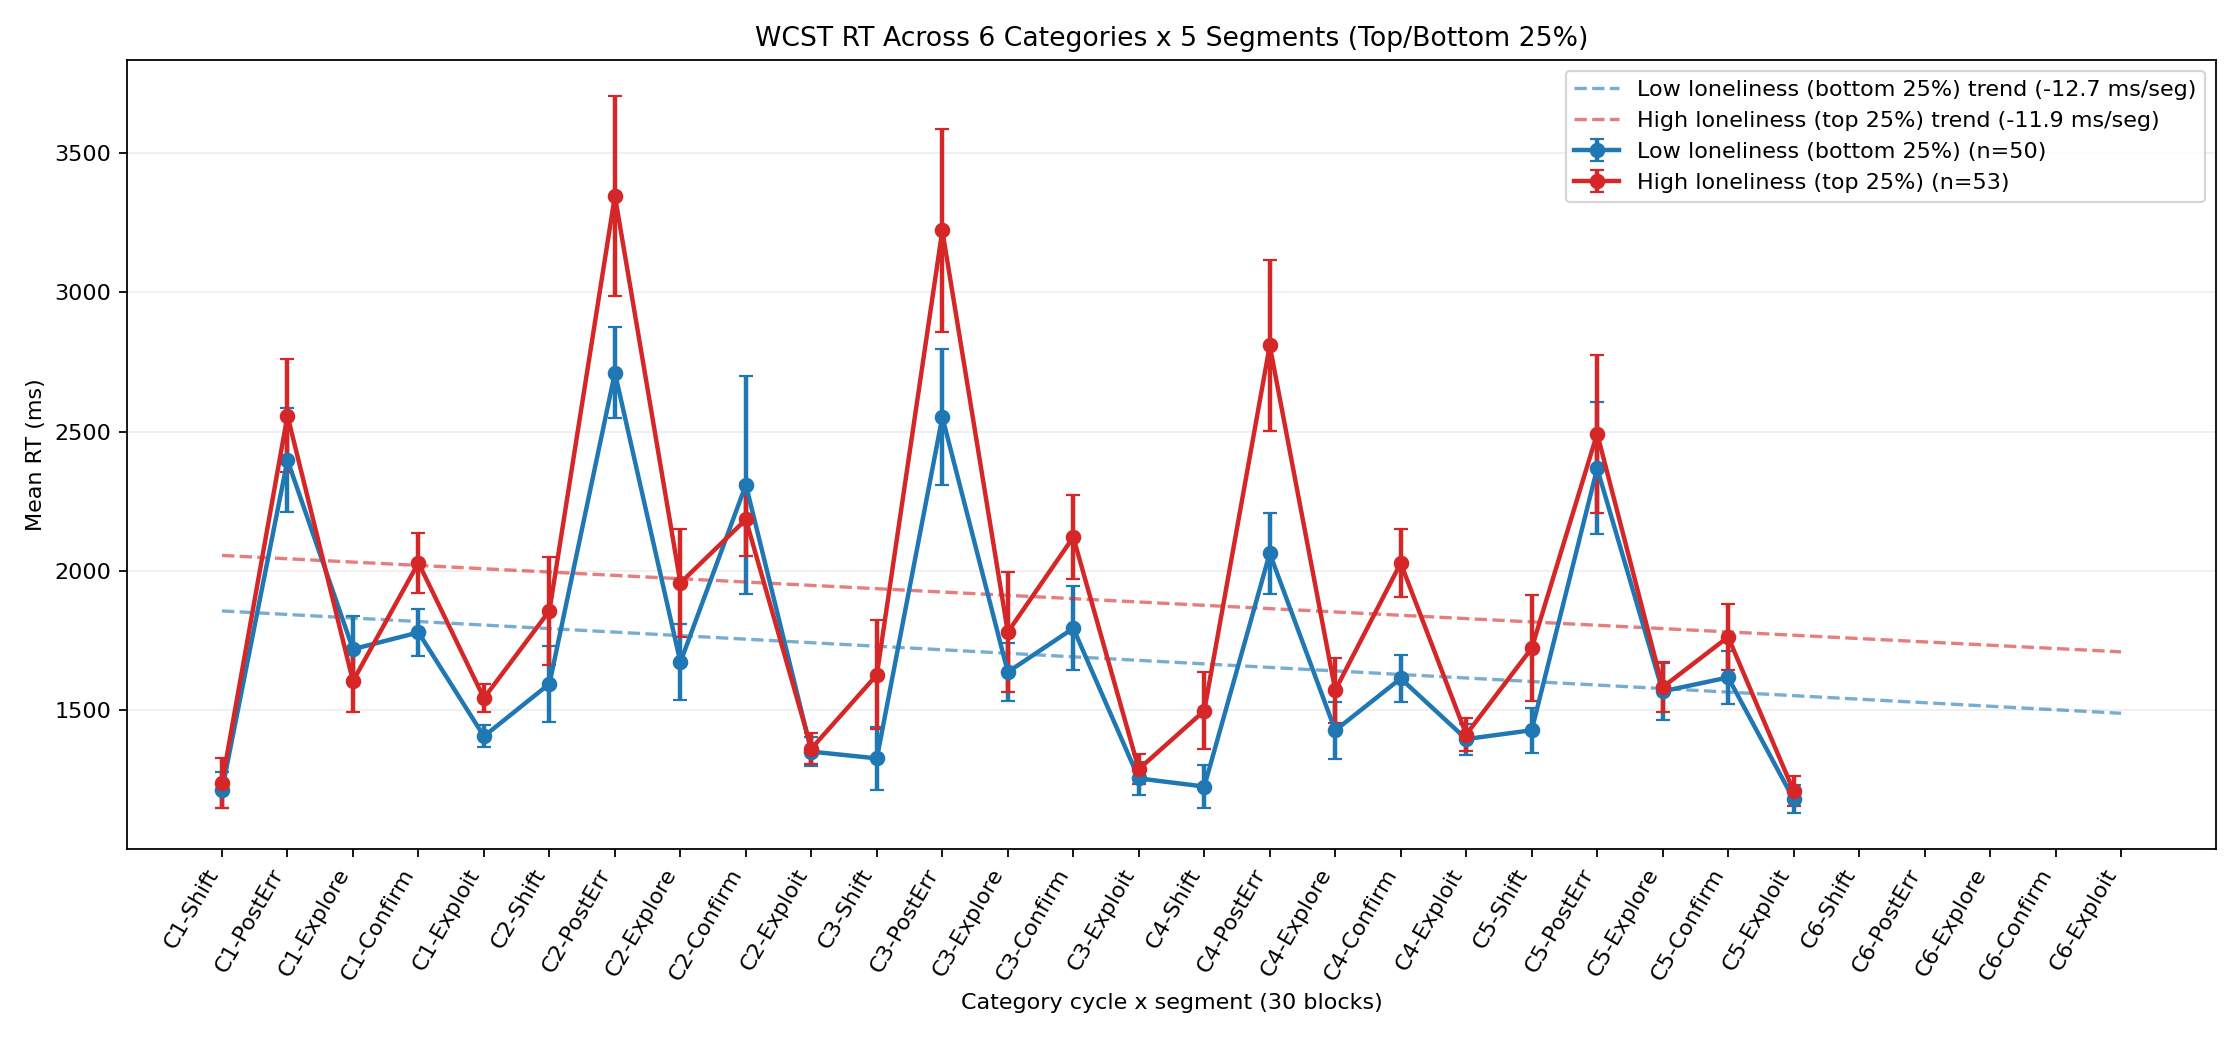
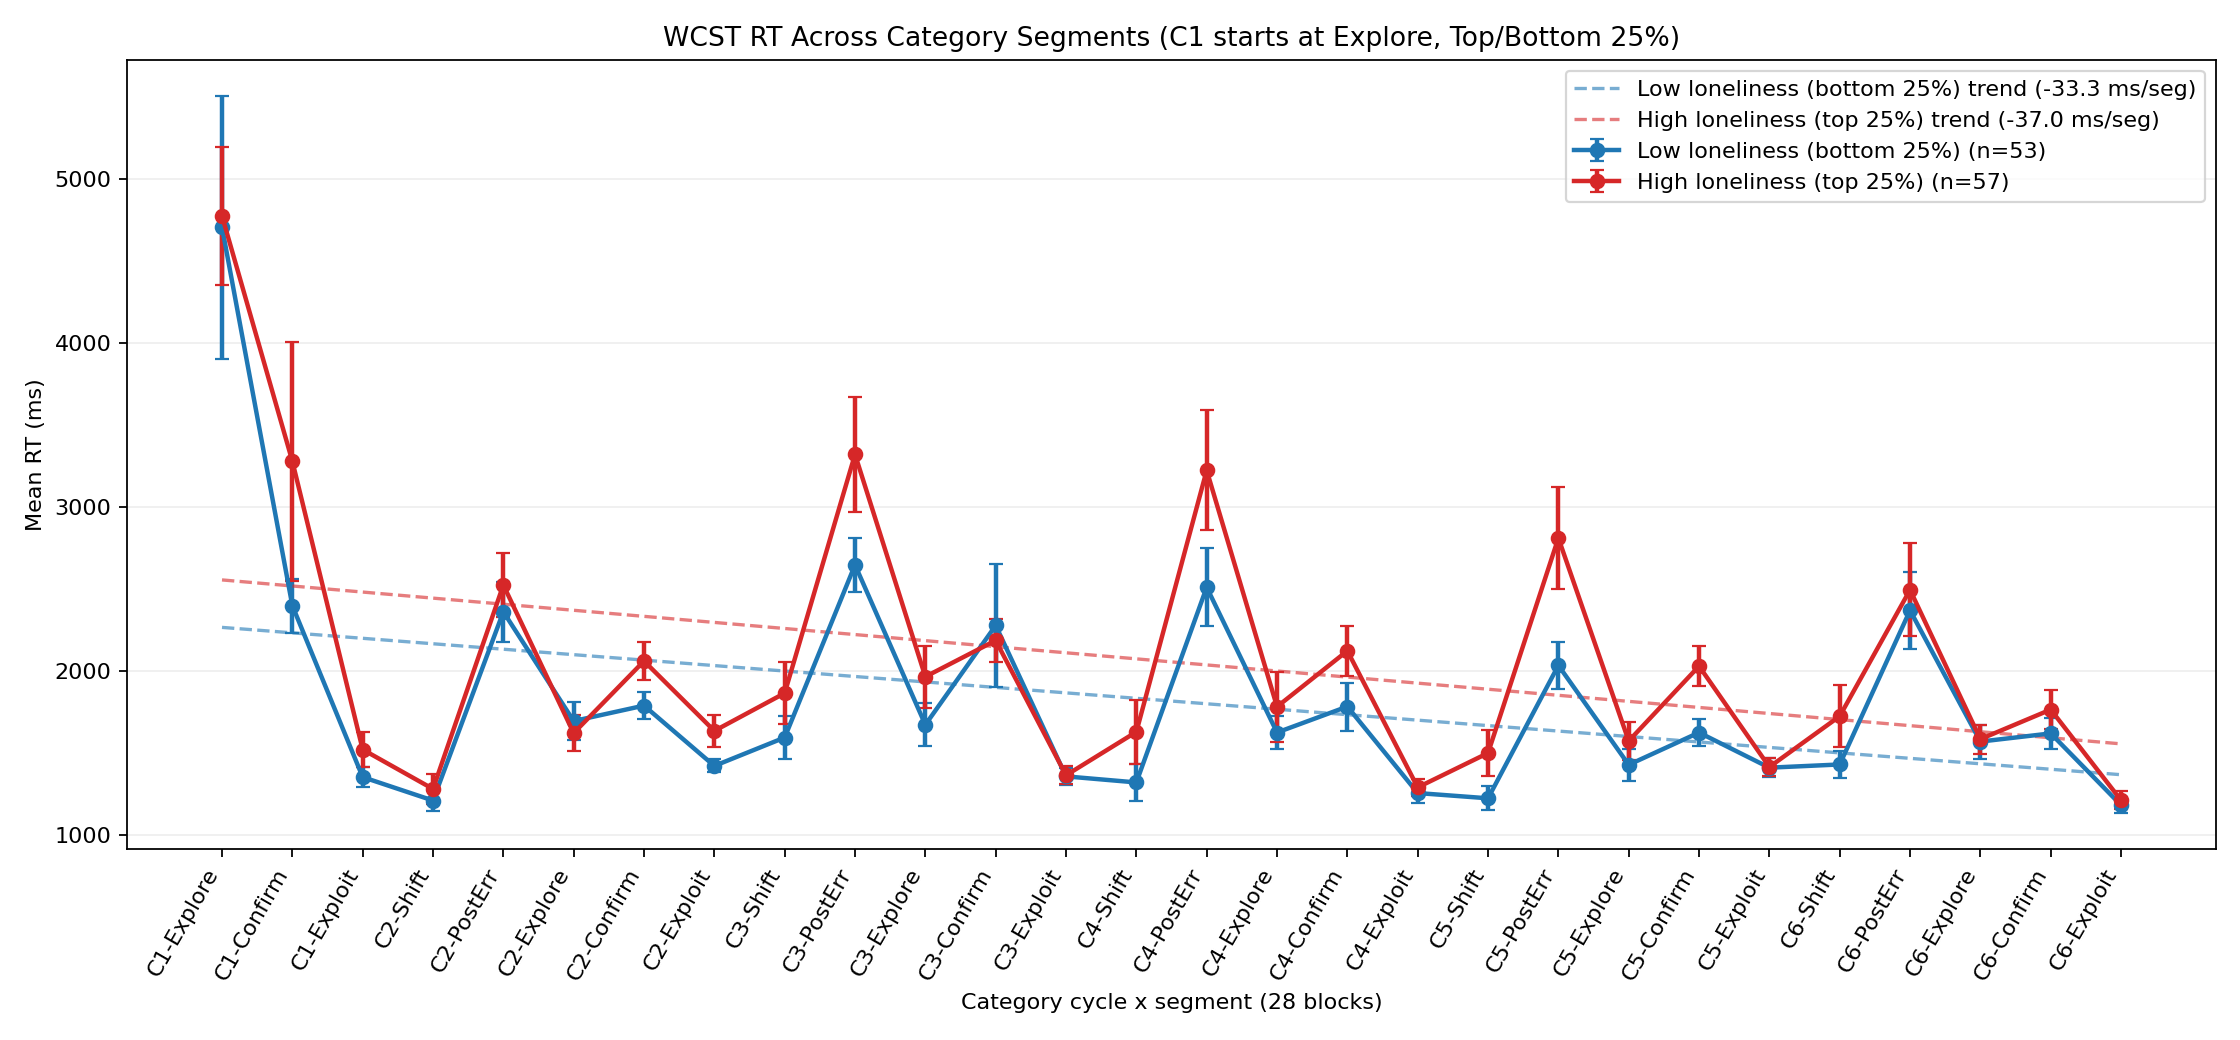
Update WCST category segment trend outputs

diff --git a/publication/scripts/generate_wcst_category_segment_rt_trend.py b/publication/scripts/generate_wcst_category_segment_rt_trend.py
@@ -26,6 +26,26 @@ SEGMENTS = [
     ("confirmation", "Confirm"),
     ("exploitation", "Exploit"),
 ]
+FIRST_SEGMENTS = [
+    ("exploration", "Explore"),
+    ("confirmation", "Confirm"),
+    ("exploitation", "Exploit"),
+]
+
+
+def _segment_plan() -> tuple[list[str], dict[tuple[int, str], int], dict[int, list[tuple[str, str]]]]:
+    labels: list[str] = []
+    order_map: dict[tuple[int, str], int] = {}
+    segments_by_category: dict[int, list[tuple[str, str]]] = {}
+    order = 1
+    for cat in range(1, N_CATEGORIES + 1):
+        segs = FIRST_SEGMENTS if cat == 1 else SEGMENTS
+        segments_by_category[cat] = segs
+        for seg_key, seg_short in segs:
+            order_map[(cat, seg_key)] = order
+            labels.append(f"C{cat}-{seg_short}")
+            order += 1
+    return labels, order_map, segments_by_category
 
 
 def _assign_loneliness_groups(df: pd.DataFrame) -> pd.DataFrame:
@@ -103,6 +123,8 @@ def _build_long_df(
     rt_col: str,
     trial_col: str | None,
     rule_col: str,
+    segments_by_category: dict[int, list[tuple[str, str]]],
+    order_map: dict[tuple[int, str], int],
 ) -> pd.DataFrame:
     records: list[dict[str, object]] = []
     for pid, grp in trials.groupby("participant_id"):
@@ -114,16 +136,14 @@ def _build_long_df(
         correct = grp_sorted["correct"].astype(bool).to_numpy()
         rules = grp_sorted[rule_col].astype(str).str.lower().to_numpy()
         change_indices = [i for i in range(1, len(rules)) if rules[i] != rules[i - 1]]
-        if not change_indices:
-            continue
-
-        for cat_idx, idx in enumerate(change_indices, start=1):
+        segment_starts = [0] + change_indices
+        segment_ends = change_indices + [len(rules)]
+        for cat_idx, (idx, next_idx) in enumerate(zip(segment_starts, segment_ends), start=1):
             if cat_idx > N_CATEGORIES:
                 break
-            next_idx = change_indices[cat_idx] if cat_idx < len(change_indices) else len(rules)
             seg_means = _segment_means_for_cycle(rt_vals, correct, idx, next_idx)
-            for seg_key, seg_short in SEGMENTS:
-                order = (cat_idx - 1) * len(SEGMENTS) + SEGMENTS.index((seg_key, seg_short)) + 1
+            for seg_key, seg_short in segments_by_category[cat_idx]:
+                order = order_map[(cat_idx, seg_key)]
                 records.append({
                     "participant_id": pid,
                     "category_num": cat_idx,
@@ -135,13 +155,10 @@ def _build_long_df(
     return pd.DataFrame(records)
 
 
-def _summary_by_block(df: pd.DataFrame) -> pd.DataFrame:
+def _summary_by_block(df: pd.DataFrame, labels: list[str]) -> pd.DataFrame:
     records: list[dict[str, object]] = []
-    for order in range(1, N_CATEGORIES * len(SEGMENTS) + 1):
+    for order, label in enumerate(labels, start=1):
         block_df = df[df["segment_order"] == order]
-        if block_df.empty:
-            continue
-        label = block_df["segment_label"].iloc[0]
         for group in (LOW_LABEL, HIGH_LABEL):
             vals = block_df.loc[block_df["loneliness_group"] == group, "mean_rt"].dropna()
             n = int(len(vals))
@@ -171,7 +188,6 @@ def main() -> None:
         sys.stdout.reconfigure(encoding="utf-8")
 
     master = get_analysis_data("wcst")
-    master = master[master["wcst_categories_completed"].fillna(0) >= N_CATEGORIES].copy()
     master = master[["participant_id", "ucla_score"]].dropna()
 
     trials_pack = prepare_wcst_trials()
@@ -183,21 +199,17 @@ def main() -> None:
         raise RuntimeError("WCST trials missing required columns.")
 
     wcst = wcst[wcst["participant_id"].isin(master["participant_id"])].copy()
-    long_df = _build_long_df(wcst, rt_col, trial_col, rule_col)
+    labels, order_map, segments_by_category = _segment_plan()
+    long_df = _build_long_df(wcst, rt_col, trial_col, rule_col, segments_by_category, order_map)
     long_df = long_df.merge(master, on="participant_id", how="inner")
     long_df = _assign_loneliness_groups(long_df)
 
-    summary = _summary_by_block(long_df)
+    summary = _summary_by_block(long_df, labels)
     output_dir = get_output_dir("wcst")
     summary_path = output_dir / "wcst_category_segment_rt_line_extremes25_6cat_summary.csv"
     summary.to_csv(summary_path, index=False, encoding="utf-8-sig")
 
-    x = np.arange(1, N_CATEGORIES * len(SEGMENTS) + 1, dtype=float)
-    labels = [
-        f"C{cat}-{seg_short}"
-        for cat in range(1, N_CATEGORIES + 1)
-        for _, seg_short in SEGMENTS
-    ]
+    x = np.arange(1, len(labels) + 1, dtype=float)
 
     group_data = {}
     n_by_group = {}
@@ -238,8 +250,8 @@ def main() -> None:
                 label=f"{group} trend ({slope:.1f} ms/seg)",
             )
 
-    ax.set_title("WCST RT Across 6 Categories x 5 Segments (Top/Bottom 25%)")
-    ax.set_xlabel("Category cycle x segment (30 blocks)")
+    ax.set_title("WCST RT Across Category Segments (C1 starts at Explore, Top/Bottom 25%)")
+    ax.set_xlabel(f"Category cycle x segment ({len(labels)} blocks)")
     ax.set_ylabel("Mean RT (ms)")
     ax.set_xticks(x)
     ax.set_xticklabels(labels, rotation=60, ha="right")
